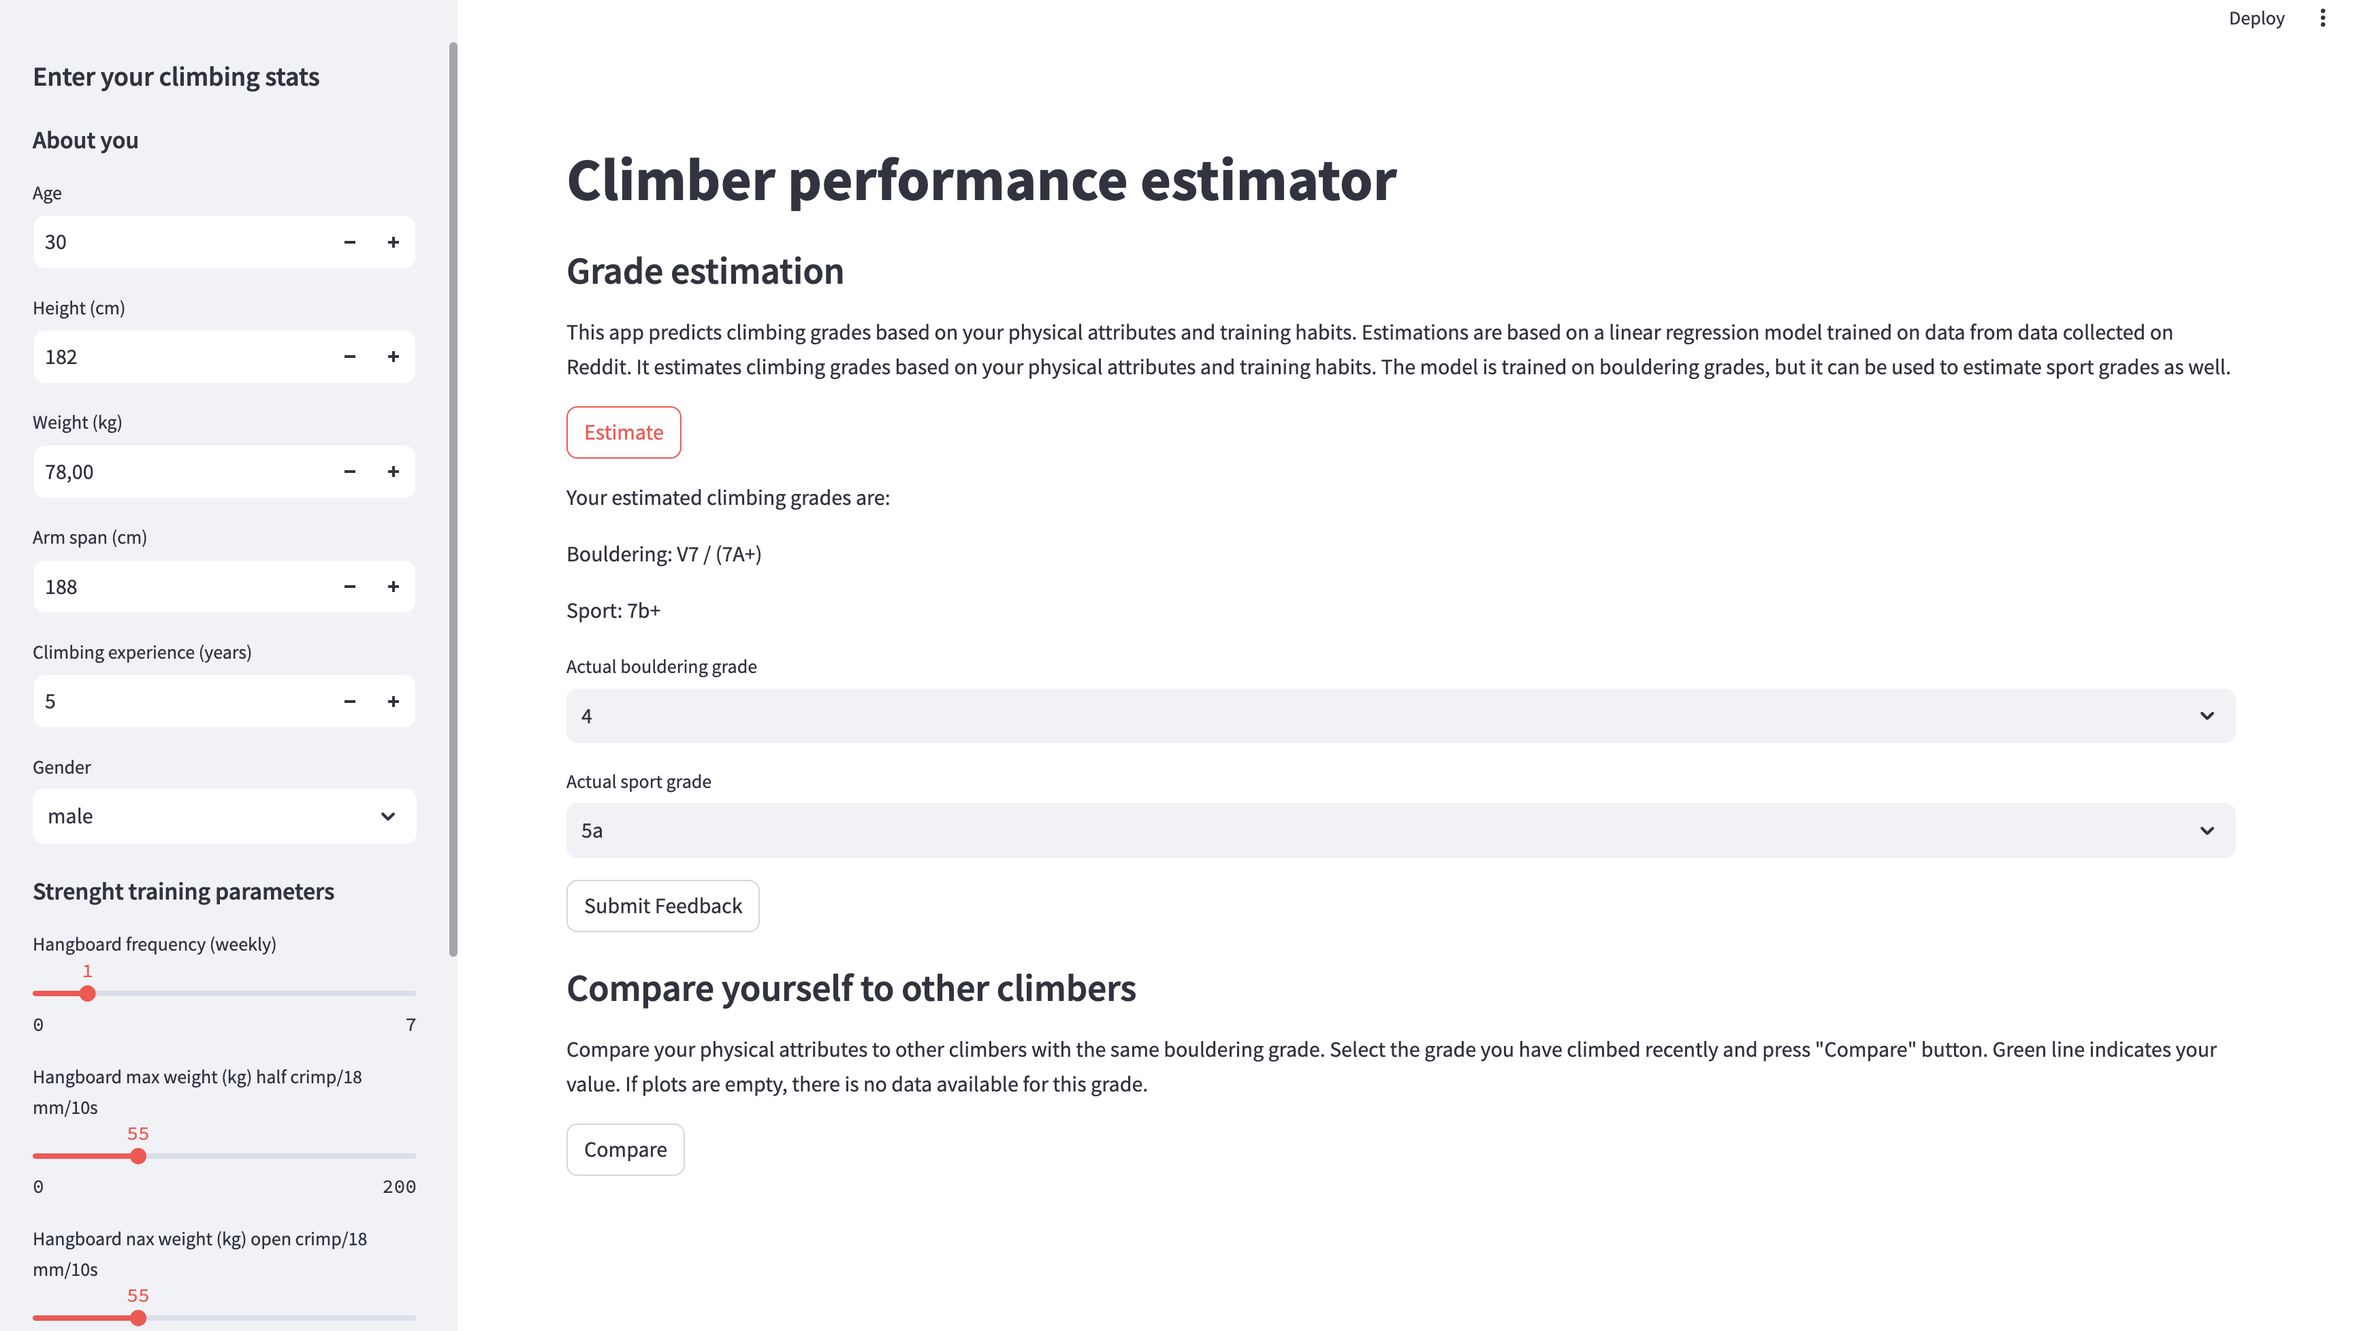
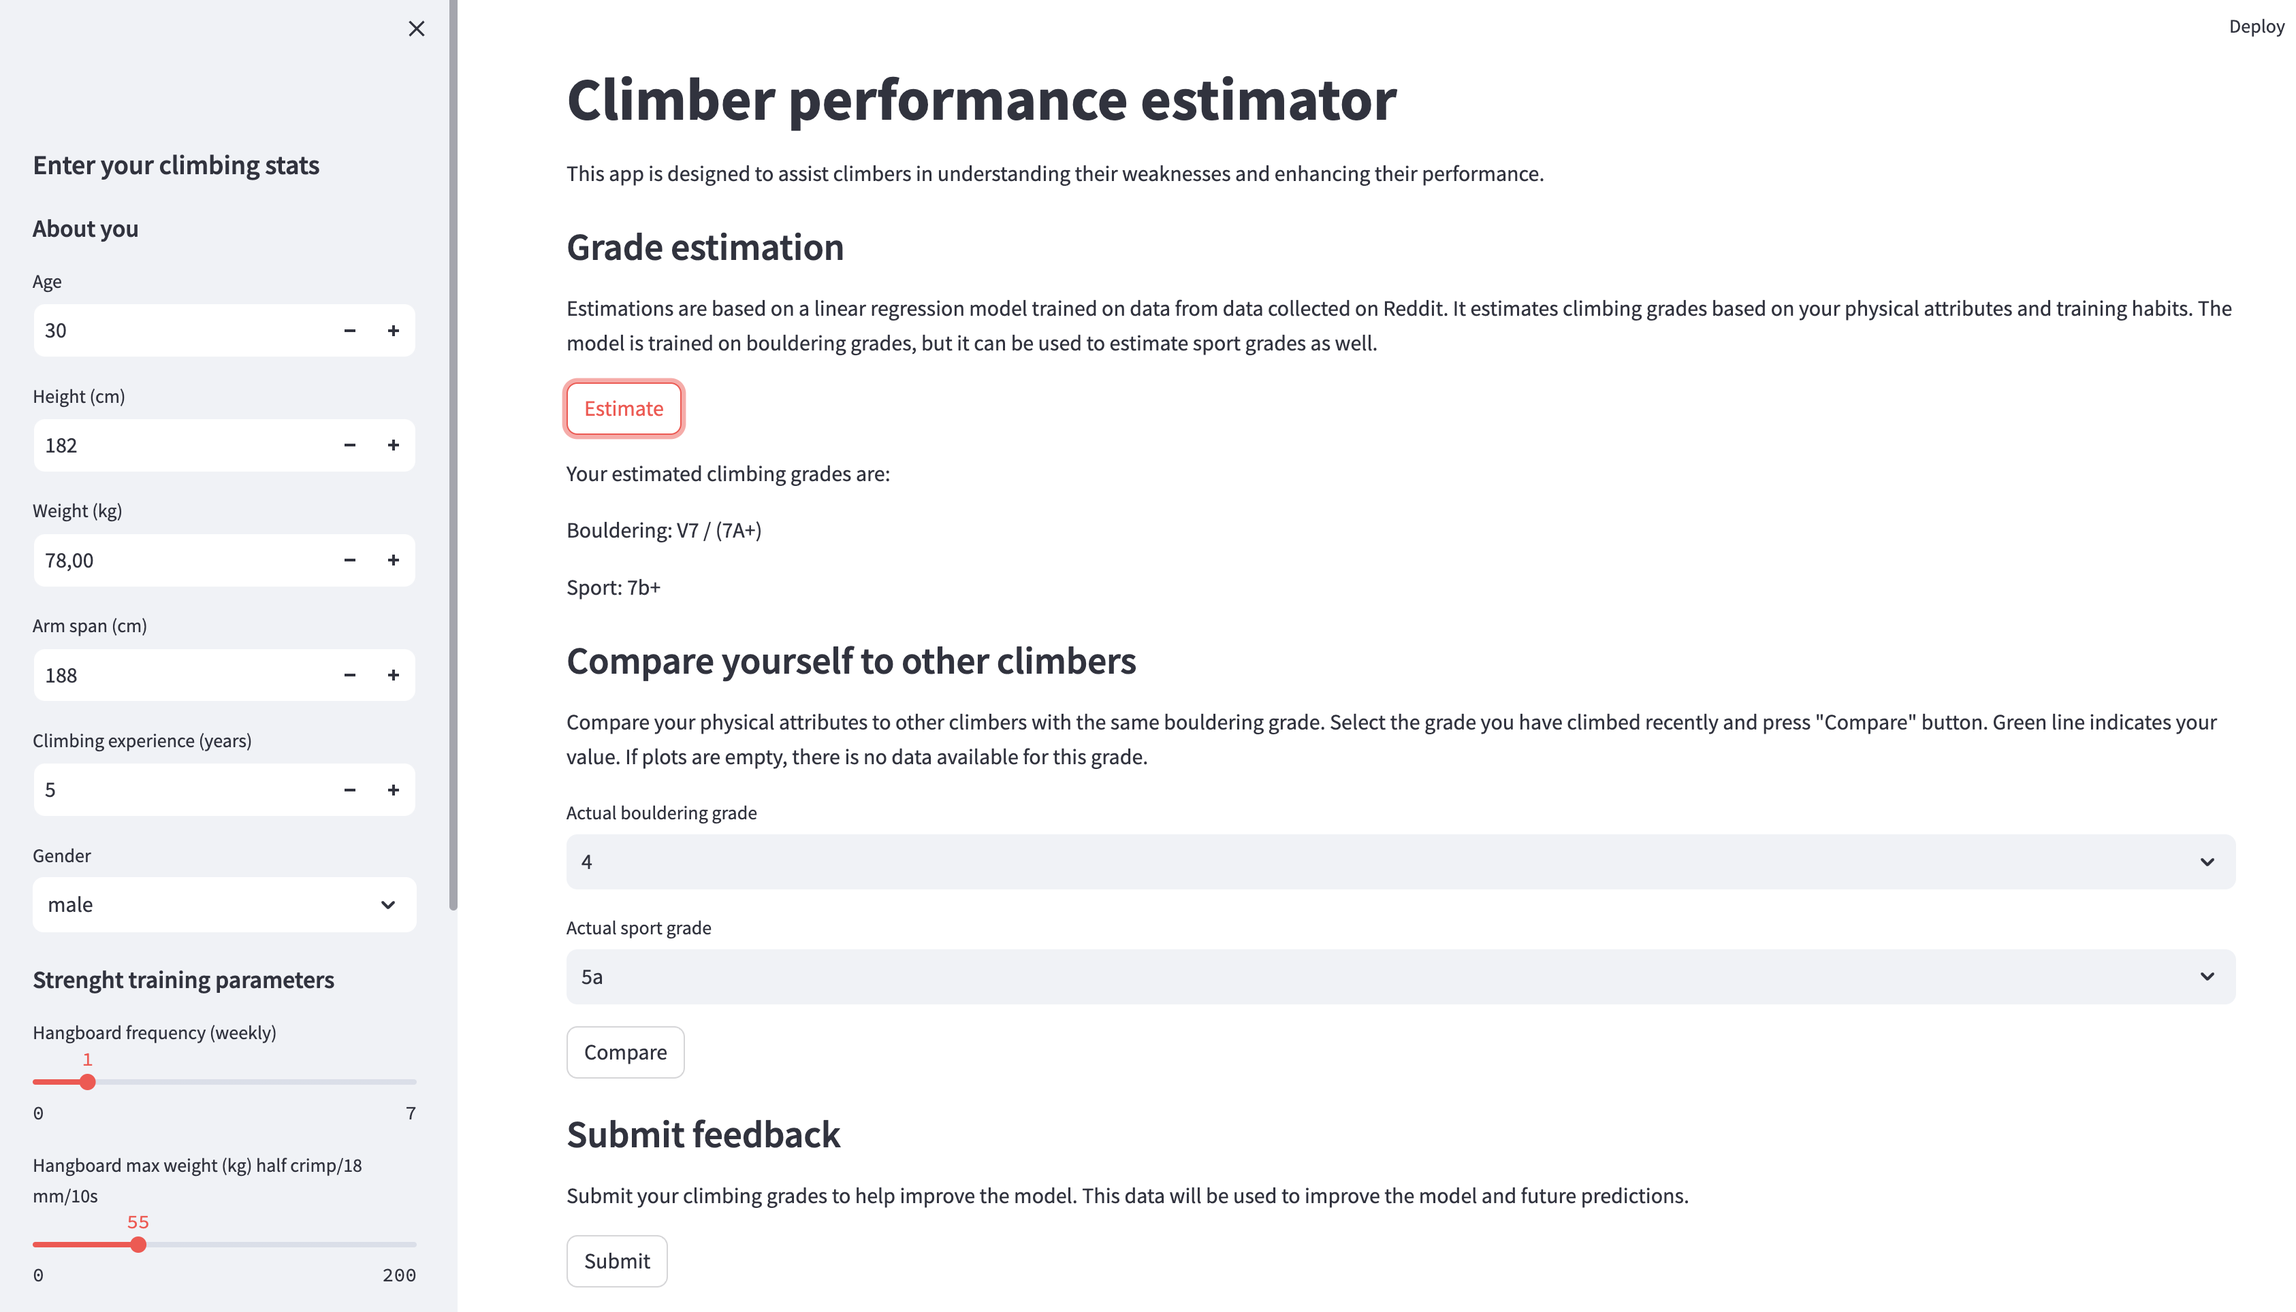
app refactor, include Makefile

diff --git a/src/app/app.py b/src/app/app.py
@@ -10,61 +10,34 @@ from src.utils.climbing_grades_mapping import (
 import pandas as pd
 import plotly.graph_objects as go
 from plotly.subplots import make_subplots
-import psycopg2
-from psycopg2 import OperationalError
+import os
 import logging as logger
 import requests
+from pathlib import Path
 
 logger.basicConfig(level=logger.INFO)
 
+APP_ENV = os.getenv("APP_ENV", "local")
 
-# Database connection
-def connect_to_postgres():
-    secrets = st.secrets["postgres"]
+if APP_ENV == "local":
+    # Use local data and model
+    DATA_PATH = Path(__file__).parents[2] / "data"
+    REDDIT_DATA_PATH = DATA_PATH / "interim/reddit_data.csv"
+    MODEL_URL = "http://localhost:8000/predict"
+    reddit_data = pd.read_csv(REDDIT_DATA_PATH)
     try:
-        connection = psycopg2.connect(
-            user=secrets["user"],
-            password=secrets["password"],
-            host=secrets["host"],
-            port=secrets["port"],
-            database=secrets["database"],
-        )
-        cursor = connection.cursor()
-        logger.info(connection.get_dsn_parameters(), "\n")
-        cursor.execute("SELECT version();")
-        record = cursor.fetchone()
-        logger.info("You are connected to - ", record, "\n")
+        reddit_data = pd.read_csv(REDDIT_DATA_PATH)
+    except FileNotFoundError:
+        logger.error(f"File not found: {REDDIT_DATA_PATH}")
+        st.error("File not found. Please run `dvc pull` to make data available locally.")
+else:
+    # Connect to database
+    from src.app.db_utils import connect_to_postgres, store_in_db
 
-        return connection
-
-    except (Exception, OperationalError) as error:
-        logger.info("Error while connecting to PostgreSQL", error)
-
-
-def store_in_db(data: dict):
-    """Store feedback data in PostgreSQL database"""
-    cursor = conn.cursor()
-
-    cursor.execute(
-        "INSERT INTO climbharderapp (timestamp, age, height_cm, weight_kg, arm_span_cm, climbing_exp_years,"
-        " hangboard_freq_weekly, hangboard_max_weight_half_crimp_kg, hangboard_max_weight_open_crimp_kg,"
-        " hangboard_min_edge_half_crimp_mm, hangboard_min_edge_open_crimp_mm, max_weight_pull_ups_kg,"
-        f" actual_bouldering_grade, actual_sport_grade) VALUES ('{data['timestamp']}', {data['age']},"
-        f" {data['height_cm']}, {data['weight_kg']}, {data['arm_span_cm']}, {data['climbing_exp_years']},"
-        f" {data['hangboard_freq_weekly']}, {data['hangboard_max_weight_half_crimp_kg']},"
-        f" {data['hangboard_max_weight_open_crimp_kg']}, {data['hangboard_min_edge_half_crimp_mm']},"
-        f" {data['hangboard_min_edge_open_crimp_mm']}, {data['max_weight_pull_ups_kg']},"
-        f" '{data['actual_bouldering_grade']}', '{data['actual_sport_grade']}');"
-    )
-    conn.commit()
-
-
-# Constants
-# DATA_PATH = Path(__file__).parents[0] / "data"
-# REDDIT_DATA_PATH = DATA_PATH / "interim/reddit_data.csv"
-#
-## Load data
-# reddit_data = pd.read_csv(REDDIT_DATA_PATH)
+    secrets = st.secrets["postgres"]
+    conn = connect_to_postgres(secrets=secrets)
+    MODEL_URL = "https://climb-harder.herokuapp.com/predict"
+    reddit_data = pd.read_sql_table("reddit_data", conn)
 
 value_presets = {
     "age": {"display_name": "Age", "min": 10, "max": 100, "default": 30},
@@ -103,64 +76,61 @@ value_presets = {
     "ape_diff": {"display_name": "Ape difference", "min": -20, "max": 20, "default": 0},
 }
 
-st.set_page_config(layout="wide")
 
-st.title("Climber performance estimator", anchor="center")
-
-# Create a sidebar for user input
-st.sidebar.header("Enter your climbing stats")
-
-st.sidebar.subheader("About you")
-inputs = {}
-for name in ["age", "height_cm", "weight_kg", "arm_span_cm", "climbing_exp_years"]:
-    inputs[name] = st.sidebar.number_input(
-        value_presets[name]["display_name"],
-        min_value=value_presets[name]["min"],
-        value=value_presets[name]["default"],
-    )
-inputs["gender"] = st.sidebar.selectbox("Gender", ("male", "female"))
-
-st.sidebar.subheader("Strenght training parameters")
-for name in [
-    "hangboard_freq_weekly",
-    "hangboard_max_weight_half_crimp_kg",
-    "hangboard_max_weight_open_crimp_kg",
-    "hangboard_min_edge_half_crimp_mm",
-    "hangboard_min_edge_open_crimp_mm",
-    "max_weight_pull_ups_kg",
-]:
-    inputs[name] = st.sidebar.slider(
-        value_presets[name]["display_name"],
-        min_value=value_presets[name]["min"],
-        max_value=value_presets[name]["max"],
-        value=value_presets[name]["default"],
-    )
+def create_input(name, input_type):
+    if input_type == "number":
+        return st.sidebar.number_input(
+            value_presets[name]["display_name"],
+            min_value=value_presets[name]["min"],
+            value=value_presets[name]["default"],
+        )
+    elif input_type == "slider":
+        return st.sidebar.slider(
+            value_presets[name]["display_name"],
+            min_value=value_presets[name]["min"],
+            max_value=value_presets[name]["max"],
+            value=value_presets[name]["default"],
+        )
 
 
-inputs["bmi"] = inputs["weight_kg"] / (inputs["height_cm"] / 100) ** 2
-inputs["ape_index"] = inputs["arm_span_cm"] / inputs["height_cm"]
-inputs["ape_diff"] = inputs["arm_span_cm"] - inputs["height_cm"]
-inputs["is_male"] = True if inputs["gender"] == "male" else False
+def create_sidebar():
+    st.sidebar.subheader("About you")
+    inputs = {}
+    for name in ["age", "height_cm", "weight_kg", "arm_span_cm", "climbing_exp_years"]:
+        inputs[name] = create_input(name, input_type="number")
 
-st.subheader("Grade estimation")
-st.write(
-    "This app predicts climbing grades based on your physical attributes and training habits. Estimations are based on"
-    " a linear regression model trained on data from data collected on Reddit. It estimates climbing grades based on"
-    " your physical attributes and training habits. The model is trained on bouldering grades, but it can be used to"
-    " estimate sport grades as well."
-)
+    inputs["gender"] = st.sidebar.selectbox("Gender", ("male", "female"))
 
-# When 'Predict' is clicked, make a prediction and display it
-if st.button("Estimate"):
+    st.sidebar.subheader("Strenght training parameters")
+    for name in [
+        "hangboard_freq_weekly",
+        "hangboard_max_weight_half_crimp_kg",
+        "hangboard_max_weight_open_crimp_kg",
+        "hangboard_min_edge_half_crimp_mm",
+        "hangboard_min_edge_open_crimp_mm",
+        "max_weight_pull_ups_kg",
+    ]:
+        inputs[name] = create_input(name, input_type="slider")
+
+    # Compute additional features
+    inputs["bmi"] = inputs["weight_kg"] / (inputs["height_cm"] / 100) ** 2
+    inputs["ape_index"] = inputs["arm_span_cm"] / inputs["height_cm"]
+    inputs["ape_diff"] = inputs["arm_span_cm"] - inputs["height_cm"]
+    inputs["is_male"] = True if inputs["gender"] == "male" else False
+
+    return inputs
+
+
+def estimate_grades(inputs):
     logger.info("Estimating climbing grades")
     data = pd.Series(data=inputs).drop(["gender", "ape_diff", "age"]).to_frame().transpose()
-
-    # Send a POST request to the FastAPI application
     data = data.to_dict(orient="records")
     logger.info(f"Sending data to API: {data}")
-    response = requests.post("http://localhost:8000/predict", json=data)
 
-    if response.status_code == 200:
+    try:
+        response = requests.post(MODEL_URL, json=data)
+        response.raise_for_status()  # Raises a HTTPError if the status is 4xx, 5xx
+
         # Get the prediction from the response
         prediction = int(response.json()["prediction"])
 
@@ -173,57 +143,46 @@ if st.button("Estimate"):
         logger.info(
             f"Climbing grades estimated: {prediction_v} / ({prediction_fb} / {prediction_french_sport} (sport) "
         )
-    else:
+    except requests.exceptions.HTTPError as http_err:
+        logger.error(f"HTTP error occurred: {http_err}")
         st.write(f"Request failed with status code {response.status_code}")
+    except Exception as err:
+        logger.error(f"Other error occurred: {err}")
+        st.write("An error occurred.")
 
 
-actual_bouldering_grade = st.selectbox(
-    "Actual bouldering grade",
-    (grade for grade in v_to_fb_mapping.values()),
-)
-actual_sport_grade = st.selectbox("Actual sport grade", (grade for grade in french_sport_to_v_grade_mapping.keys()))
+def submit_feedback(inputs, actual_bouldering_grade, actual_sport_grade):
+    if APP_ENV == "local":
+        st.write("Feedback submision is not available in the local environment")
+    else:
+        timestamp = pd.Timestamp.now()
+        feedback_data = {
+            "timestamp": str(timestamp),
+            "age": inputs["age"],
+            "height_cm": inputs["height_cm"],
+            "weight_kg": inputs["weight_kg"],
+            "arm_span_cm": inputs["arm_span_cm"],
+            "climbing_exp_years": inputs["climbing_exp_years"],
+            "hangboard_freq_weekly": inputs["hangboard_freq_weekly"],
+            "hangboard_max_weight_half_crimp_kg": inputs["hangboard_max_weight_half_crimp_kg"],
+            "hangboard_max_weight_open_crimp_kg": inputs["hangboard_max_weight_open_crimp_kg"],
+            "hangboard_min_edge_half_crimp_mm": inputs["hangboard_min_edge_half_crimp_mm"],
+            "hangboard_min_edge_open_crimp_mm": inputs["hangboard_min_edge_open_crimp_mm"],
+            "max_weight_pull_ups_kg": inputs["max_weight_pull_ups_kg"],
+            "actual_bouldering_grade": actual_bouldering_grade,
+            "actual_sport_grade": actual_sport_grade,
+        }
+        logger.info(f"Feedback data: {feedback_data}")
+        logger.info("Sending feedback to database")
+        store_in_db(feedback_data)
+        logger.info("Data inserted successfully")
+        st.success("Thank you for your feedback! This will be used to improve the model and future predictions.")
 
-# Send feedback to PostgreSQL database
-if st.button("Submit Feedback"):
-    # Connect to database
-    conn = connect_to_postgres()
 
-    timestamp = pd.Timestamp.now()
-    feedback_data = {
-        "timestamp": str(timestamp),
-        "age": inputs["age"],
-        "height_cm": inputs["height_cm"],
-        "weight_kg": inputs["weight_kg"],
-        "arm_span_cm": inputs["arm_span_cm"],
-        "climbing_exp_years": inputs["climbing_exp_years"],
-        "hangboard_freq_weekly": inputs["hangboard_freq_weekly"],
-        "hangboard_max_weight_half_crimp_kg": inputs["hangboard_max_weight_half_crimp_kg"],
-        "hangboard_max_weight_open_crimp_kg": inputs["hangboard_max_weight_open_crimp_kg"],
-        "hangboard_min_edge_half_crimp_mm": inputs["hangboard_min_edge_half_crimp_mm"],
-        "hangboard_min_edge_open_crimp_mm": inputs["hangboard_min_edge_open_crimp_mm"],
-        "max_weight_pull_ups_kg": inputs["max_weight_pull_ups_kg"],
-        "actual_bouldering_grade": actual_bouldering_grade,
-        "actual_sport_grade": actual_sport_grade,
-    }
-    logger.info(f"Feedback data: {feedback_data}")
-    logger.info("Sending feedback to database")
-    store_in_db(feedback_data)
-    logger.info("Data inserted successfully")
-
-    st.success("Thank you for your feedback! This will be used to improve the model and future predictions.")
-
-st.subheader("Compare yourself to other climbers")
-st.write(
-    "Compare your physical attributes to other climbers with the same bouldering grade. Select the grade you have"
-    ' climbed recently and press "Compare" button. Green line indicates your value. If plots are empty, there is no'
-    " data available for this grade."
-)
-
-if st.button("Compare"):
+def compare_grades(inputs, actual_bouldering_grade, reddit_data):
     recent_max_climbed_grade = v_to_numeric_mapping[fb_to_v_mapping[actual_bouldering_grade]]
     dist = reddit_data.query(f"recent_max_climbed_grade == {recent_max_climbed_grade}")
 
-    # Assuming inputs and dist are pandas DataFrame
     cols = [
         "bmi",
         "height_cm",
@@ -261,3 +220,48 @@ if st.button("Compare"):
 
     fig.update_layout(height=1400, width=300, showlegend=False)
     st.plotly_chart(fig, use_container_width=True)
+
+
+st.set_page_config(layout="wide")
+
+st.title("Climber performance estimator", anchor="center")
+st.write("This app is designed to assist climbers in understanding their weaknesses and enhancing their performance. ")
+
+st.sidebar.header("Enter your climbing stats")
+inputs = create_sidebar()
+
+st.subheader("Grade estimation")
+st.write(
+    "Estimations are based on a linear regression model trained on data from data collected on Reddit. It estimates"
+    " climbing grades based on your physical attributes and training habits. The model is trained on bouldering grades,"
+    " but it can be used to estimate sport grades as well."
+)
+if st.button("Estimate"):
+    estimate_grades(inputs)
+
+st.subheader("Compare yourself to other climbers")
+st.write(
+    "Compare your physical attributes to other climbers with the same bouldering grade. Select the grade you have"
+    ' climbed recently and press "Compare" button. Green line indicates your value. If plots are empty, there is no'
+    " data available for this grade."
+)
+actual_bouldering_grade = st.selectbox(
+    "Actual bouldering grade",
+    (grade for grade in v_to_fb_mapping.values()),
+)
+actual_sport_grade = st.selectbox("Actual sport grade", (grade for grade in french_sport_to_v_grade_mapping.keys()))
+
+if st.button("Compare"):
+    compare_grades(inputs, actual_bouldering_grade, reddit_data)
+
+st.subheader("Submit feedback")
+st.write(
+    "Submit your climbing grades to help improve the model. This data will be used to improve the model and future"
+    " predictions."
+)
+
+if st.button("Submit"):
+    if actual_bouldering_grade == "Select" or actual_sport_grade == "Select":
+        st.warning("Please select your actual climbing grades before submitting feedback")
+    else:
+        submit_feedback(inputs, actual_bouldering_grade, actual_sport_grade)

diff --git a/src/app/db_utils.py b/src/app/db_utils.py
@@ -1,0 +1,44 @@
+import psycopg2
+from psycopg2 import OperationalError
+import logging as logger
+
+logger.basicConfig(level=logger.INFO)
+
+
+def connect_to_postgres(secrets: dict):
+    try:
+        connection = psycopg2.connect(
+            user=secrets["user"],
+            password=secrets["password"],
+            host=secrets["host"],
+            port=secrets["port"],
+            database=secrets["database"],
+        )
+        cursor = connection.cursor()
+        logger.info(connection.get_dsn_parameters(), "\n")
+        cursor.execute("SELECT version();")
+        record = cursor.fetchone()
+        logger.info("You are connected to - ", record, "\n")
+
+        return connection
+
+    except (Exception, OperationalError) as error:
+        logger.info("Error while connecting to PostgreSQL", error)
+
+
+def store_in_db(conn: psycopg2.extensions.connection, data: dict):
+    """Store feedback data in PostgreSQL database"""
+    cursor = conn.cursor()
+
+    cursor.execute(
+        "INSERT INTO climbharderapp (timestamp, age, height_cm, weight_kg, arm_span_cm, climbing_exp_years,"
+        " hangboard_freq_weekly, hangboard_max_weight_half_crimp_kg, hangboard_max_weight_open_crimp_kg,"
+        " hangboard_min_edge_half_crimp_mm, hangboard_min_edge_open_crimp_mm, max_weight_pull_ups_kg,"
+        f" actual_bouldering_grade, actual_sport_grade) VALUES ('{data['timestamp']}', {data['age']},"
+        f" {data['height_cm']}, {data['weight_kg']}, {data['arm_span_cm']}, {data['climbing_exp_years']},"
+        f" {data['hangboard_freq_weekly']}, {data['hangboard_max_weight_half_crimp_kg']},"
+        f" {data['hangboard_max_weight_open_crimp_kg']}, {data['hangboard_min_edge_half_crimp_mm']},"
+        f" {data['hangboard_min_edge_open_crimp_mm']}, {data['max_weight_pull_ups_kg']},"
+        f" '{data['actual_bouldering_grade']}', '{data['actual_sport_grade']}');"
+    )
+    conn.commit()
